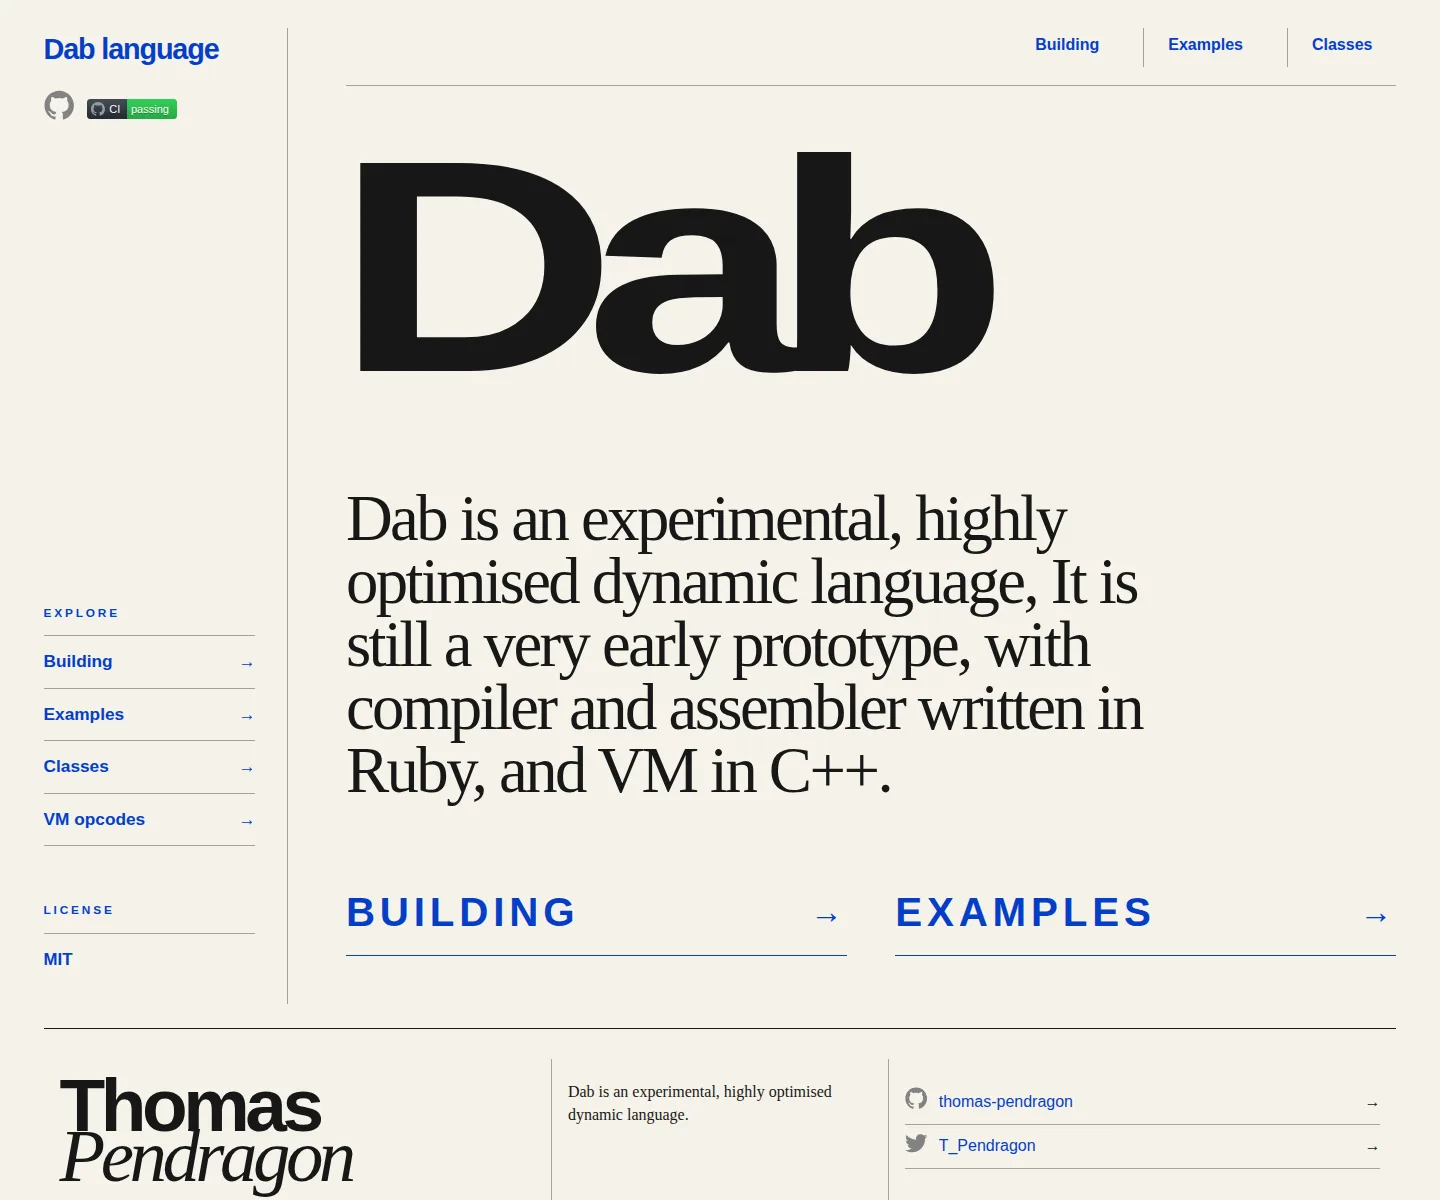
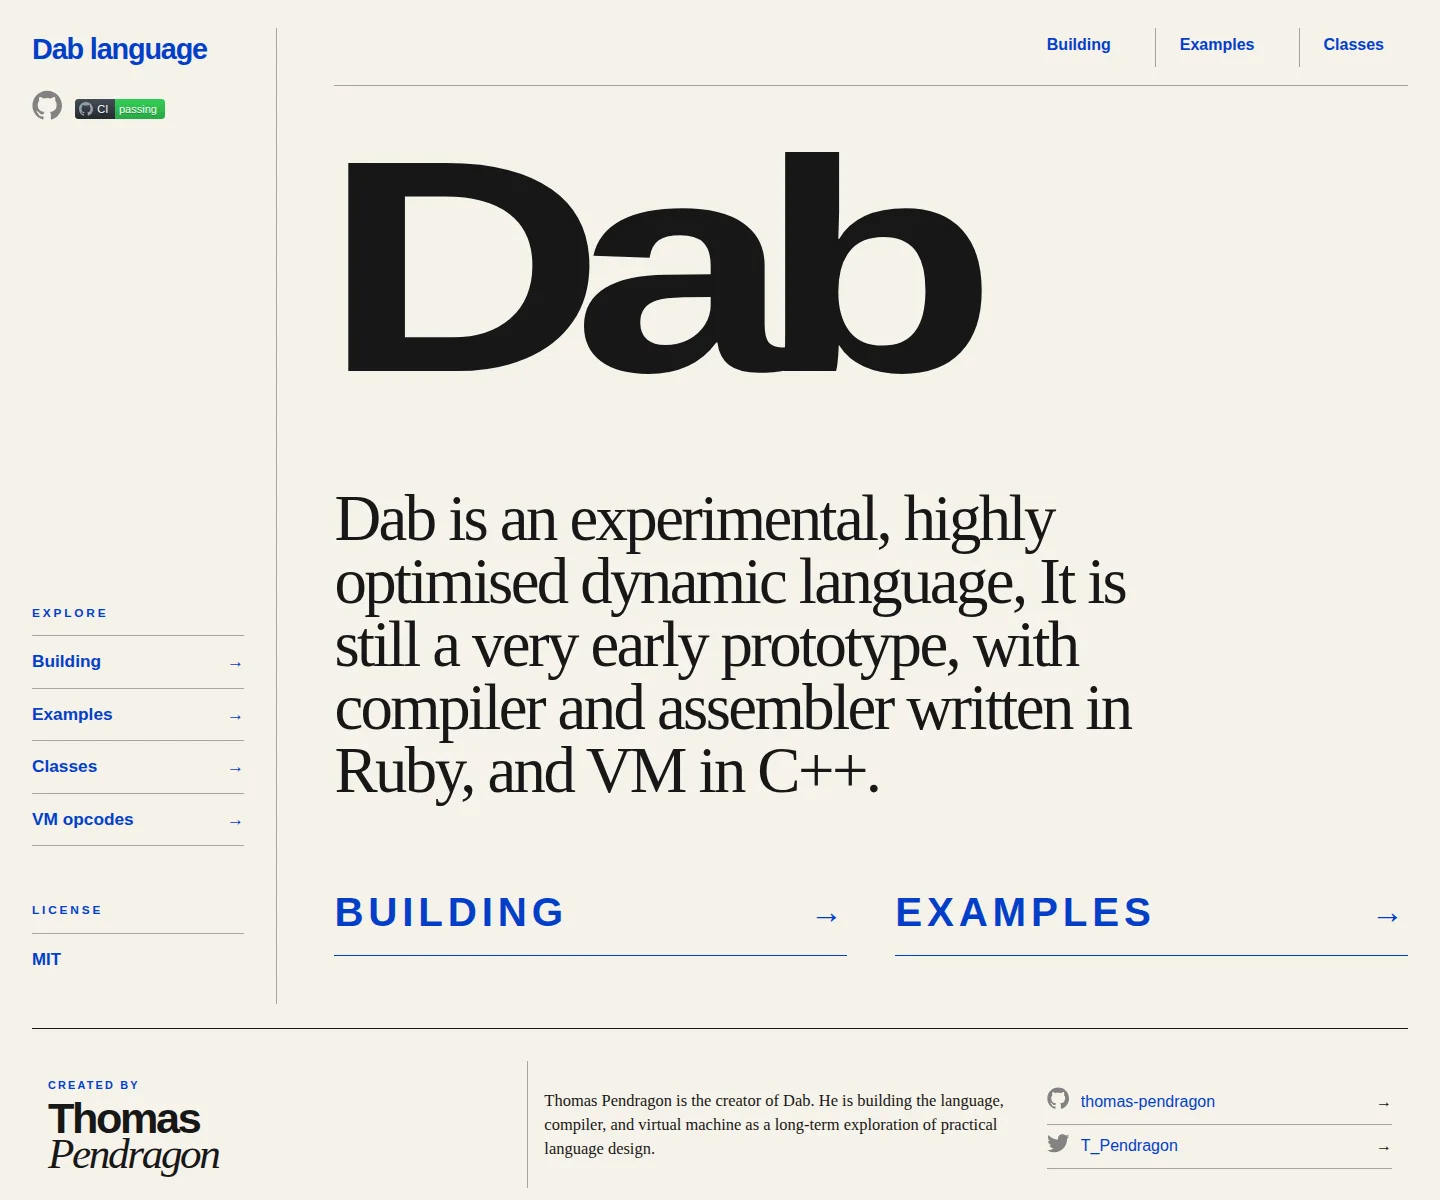
Refine the author footer
Reduce the footer signature and combine a concise author biography with the existing GitHub and Twitter links. Keep the author content and responsive shell under the public-site contract, and refresh visual evidence.

diff --git a/docs/assets/main.scss b/docs/assets/main.scss
@@ -394,44 +394,70 @@ summary:focus-visible {
 }
 
 .site-footer {
-  align-items: stretch;
+  align-items: center;
   border-top: 1px solid $ink;
   display: grid;
   gap: 0;
   grid-column: 1 / -1;
   grid-row: 2;
-  grid-template-columns: 1.2fr 0.8fr 1.2fr;
+  grid-template-columns: minmax(13rem, 0.72fr) minmax(0, 1.28fr);
   margin-top: 1.5rem;
-  min-height: 9rem;
 }
 
 .footer-signature,
-.footer-description,
-.footer-links {
-  padding: 1.3rem 1rem;
+.footer-author-details {
+  padding: 1.15rem 1rem;
 }
 
 .footer-signature {
+  align-self: stretch;
   display: flex;
   flex-direction: column;
-  font-family: $sans;
-  font-size: clamp(3.2rem, 5.2vw, 5.5rem);
-  font-weight: 700;
-  letter-spacing: -0.06em;
-  line-height: 0.68;
+  justify-content: center;
 }
 
-.footer-signature em {
+.footer-kicker {
+  color: $blue;
+  font-size: 0.68rem;
+  font-weight: 700;
+  letter-spacing: 0.2em;
+  margin: 0 0 0.45rem;
+  text-transform: uppercase;
+}
+
+.footer-author-name {
+  font-family: $sans;
+  font-size: clamp(2rem, 3vw, 3.25rem);
+  font-weight: 700;
+  letter-spacing: -0.055em;
+  line-height: 0.82;
+  margin: 0;
+}
+
+.footer-author-name span,
+.footer-author-name em {
+  display: block;
+}
+
+.footer-author-name em {
   font-family: $serif;
   font-weight: 400;
 }
 
-.footer-description {
+.footer-author-details {
+  align-items: center;
   border-left: 1px solid $rule;
-  border-right: 1px solid $rule;
+  display: grid;
+  gap: clamp(1.5rem, 3vw, 3.5rem);
+  grid-template-columns: minmax(0, 1fr) minmax(14rem, 0.75fr);
+}
+
+.footer-biography {
   font-family: $serif;
+  font-size: 1.03rem;
   line-height: 1.45;
   margin: 0;
+  max-width: 38rem;
 }
 
 .footer-links {
@@ -533,17 +559,16 @@ summary:focus-visible {
   }
 
   .site-footer {
-    grid-template-columns: 1fr 1fr;
+    grid-template-columns: minmax(11rem, 0.55fr) minmax(0, 1.45fr);
     margin-top: 3rem;
   }
 
-  .footer-description {
-    border-right: 0;
+  .footer-author-details {
+    display: block;
   }
 
   .footer-links {
-    border-top: 1px solid $rule;
-    grid-column: 1 / -1;
+    margin-top: 1rem;
   }
 }
 
@@ -602,12 +627,8 @@ summary:focus-visible {
     display: block;
   }
 
-  .footer-description {
+  .footer-author-details {
     border-left: 0;
-    border-top: 1px solid $rule;
-  }
-
-  .footer-links {
     border-top: 1px solid $rule;
   }
 }

diff --git a/docs/_includes/footer.html b/docs/_includes/footer.html
@@ -1,23 +1,25 @@
 <footer class="site-footer">
   <div class="footer-signature" aria-label="Created by Thomas Pendragon">
-    <span>Thomas</span>
-    <em>Pendragon</em>
+    <p class="footer-kicker">Created by</p>
+    <p class="footer-author-name"><span>Thomas</span> <em>Pendragon</em></p>
   </div>
 
-  <p class="footer-description">{{ site.description | escape }}</p>
+  <div class="footer-author-details">
+    <p class="footer-biography">{{ site.author_bio | escape }}</p>
 
-  <nav class="footer-links" aria-label="Project links">
-    {% if site.github_username %}
-      <div class="footer-social-row">
-        {% include icon-github.html username=site.github_username %}
-        <span aria-hidden="true">→</span>
-      </div>
-    {% endif %}
-    {% if site.twitter_username %}
-      <div class="footer-social-row">
-        {% include icon-twitter.html username=site.twitter_username %}
-        <span aria-hidden="true">→</span>
-      </div>
-    {% endif %}
-  </nav>
+    <nav class="footer-links" aria-label="Thomas Pendragon online">
+      {% if site.github_username %}
+        <div class="footer-social-row">
+          {% include icon-github.html username=site.github_username %}
+          <span aria-hidden="true">→</span>
+        </div>
+      {% endif %}
+      {% if site.twitter_username %}
+        <div class="footer-social-row">
+          {% include icon-twitter.html username=site.twitter_username %}
+          <span aria-hidden="true">→</span>
+        </div>
+      {% endif %}
+    </nav>
+  </div>
 </footer>

diff --git a/lib/dab/public_site.rb b/lib/dab/public_site.rb
@@ -202,8 +202,9 @@ module Dab::PublicSite
       home_layout = read_site_source('_layouts/home.html', 'home layout')
       page_layout = read_site_source('_layouts/page.html', 'page layout')
       header = read_site_source('_includes/header.html', 'site header')
+      footer = read_site_source('_includes/footer.html', 'site footer')
       stylesheet = read_site_source('assets/main.scss', 'public-site stylesheet')
-      return unless default_layout && home_layout && page_layout && header && stylesheet
+      return unless default_layout && home_layout && page_layout && header && footer && stylesheet
 
       {
         'site shell' => 'site-shell',
@@ -227,6 +228,13 @@ module Dab::PublicSite
         'license' => 'href="{{ "/license.html" | relative_url }}"',
       }.each do |name, marker|
         @errors << "mobile header must link to the #{name}" unless header.include?(marker)
+      end
+      unless footer.include?('{{ site.author_bio | escape }}') &&
+             footer.include?('icon-github.html') && footer.include?('icon-twitter.html')
+        @errors << 'shared footer must include the author biography and profile links'
+      end
+      unless @config['author_bio'].is_a?(String) && !@config['author_bio'].strip.empty?
+        @errors << 'Jekyll author_bio must be a non-empty string'
       end
       unless stylesheet.include?('@media (max-width: 850px)') && stylesheet.include?('@media (max-width: 560px)')
         @errors << 'public-site stylesheet must define both responsive breakpoints'

diff --git a/spec/public_site_spec.rb b/spec/public_site_spec.rb
@@ -75,10 +75,18 @@ describe Dab::PublicSite::Contract do
       File.binwrite(stylesheet, File.binread(stylesheet).gsub('@media (prefers-reduced-motion: reduce)', '@media print'))
       header = File.join(root, 'docs/_includes/header.html')
       File.binwrite(header, File.binread(header).gsub('/vm/opcodes.html', '/removed.html'))
+      footer = File.join(root, 'docs/_includes/footer.html')
+      File.binwrite(footer, File.binread(footer).gsub('{{ site.author_bio | escape }}', 'Biography removed'))
+      config_path = File.join(root, 'docs/_config.yml')
+      config = YAML.safe_load(File.binread(config_path), aliases: false)
+      config.delete('author_bio')
+      File.binwrite(config_path, YAML.dump(config))
 
       expect(validate(root).errors).to include(
         'default layout must include the skip link',
         'mobile header must link to the VM opcode reference',
+        'shared footer must include the author biography and profile links',
+        'Jekyll author_bio must be a non-empty string',
         'public-site stylesheet must preserve focus and reduced-motion handling'
       )
     end

diff --git a/design-qa.md b/design-qa.md
@@ -18,7 +18,9 @@ The normalized side-by-side comparison shows the same defining composition as
 the selected visual: a narrow project rail, a ruled primary navigation row, an
 oversized horizontally extended display title, a high-contrast serif
 description, two large underlined calls to action, and a three-part author and
-project footer. The implementation deliberately retains the repository's real
+project footer. Owner review refined that footer into a smaller two-part author
+module: a compact signature followed by a short biography with GitHub and
+Twitter links. The implementation deliberately retains the repository's real
 CI badge, public navigation contract, and existing project destinations.
 
 The implementation omits the mock's dotted field and red ornamental marks.
@@ -70,7 +72,11 @@ social marks, and CTA treatment legible at the same time.
 3. Owner review identified `Design` as ideation placeholder copy. The hero and
    document title now use `Dab`, and the desktop and mobile evidence was
    recaptured against the LAN-served implementation.
-4. The post-fix desktop comparison and 390 by 844 home/document captures show no
+4. Owner review identified the footer signature as oversized and the standalone
+   profile list as under-informative. The signature is now subordinate to the
+   page, and a concise author biography and both profile links form one compact,
+   responsive block.
+5. The post-fix desktop comparison and 390 by 844 home/document captures show no
    remaining actionable P0, P1, or P2 mismatch.
 
 ## Findings
